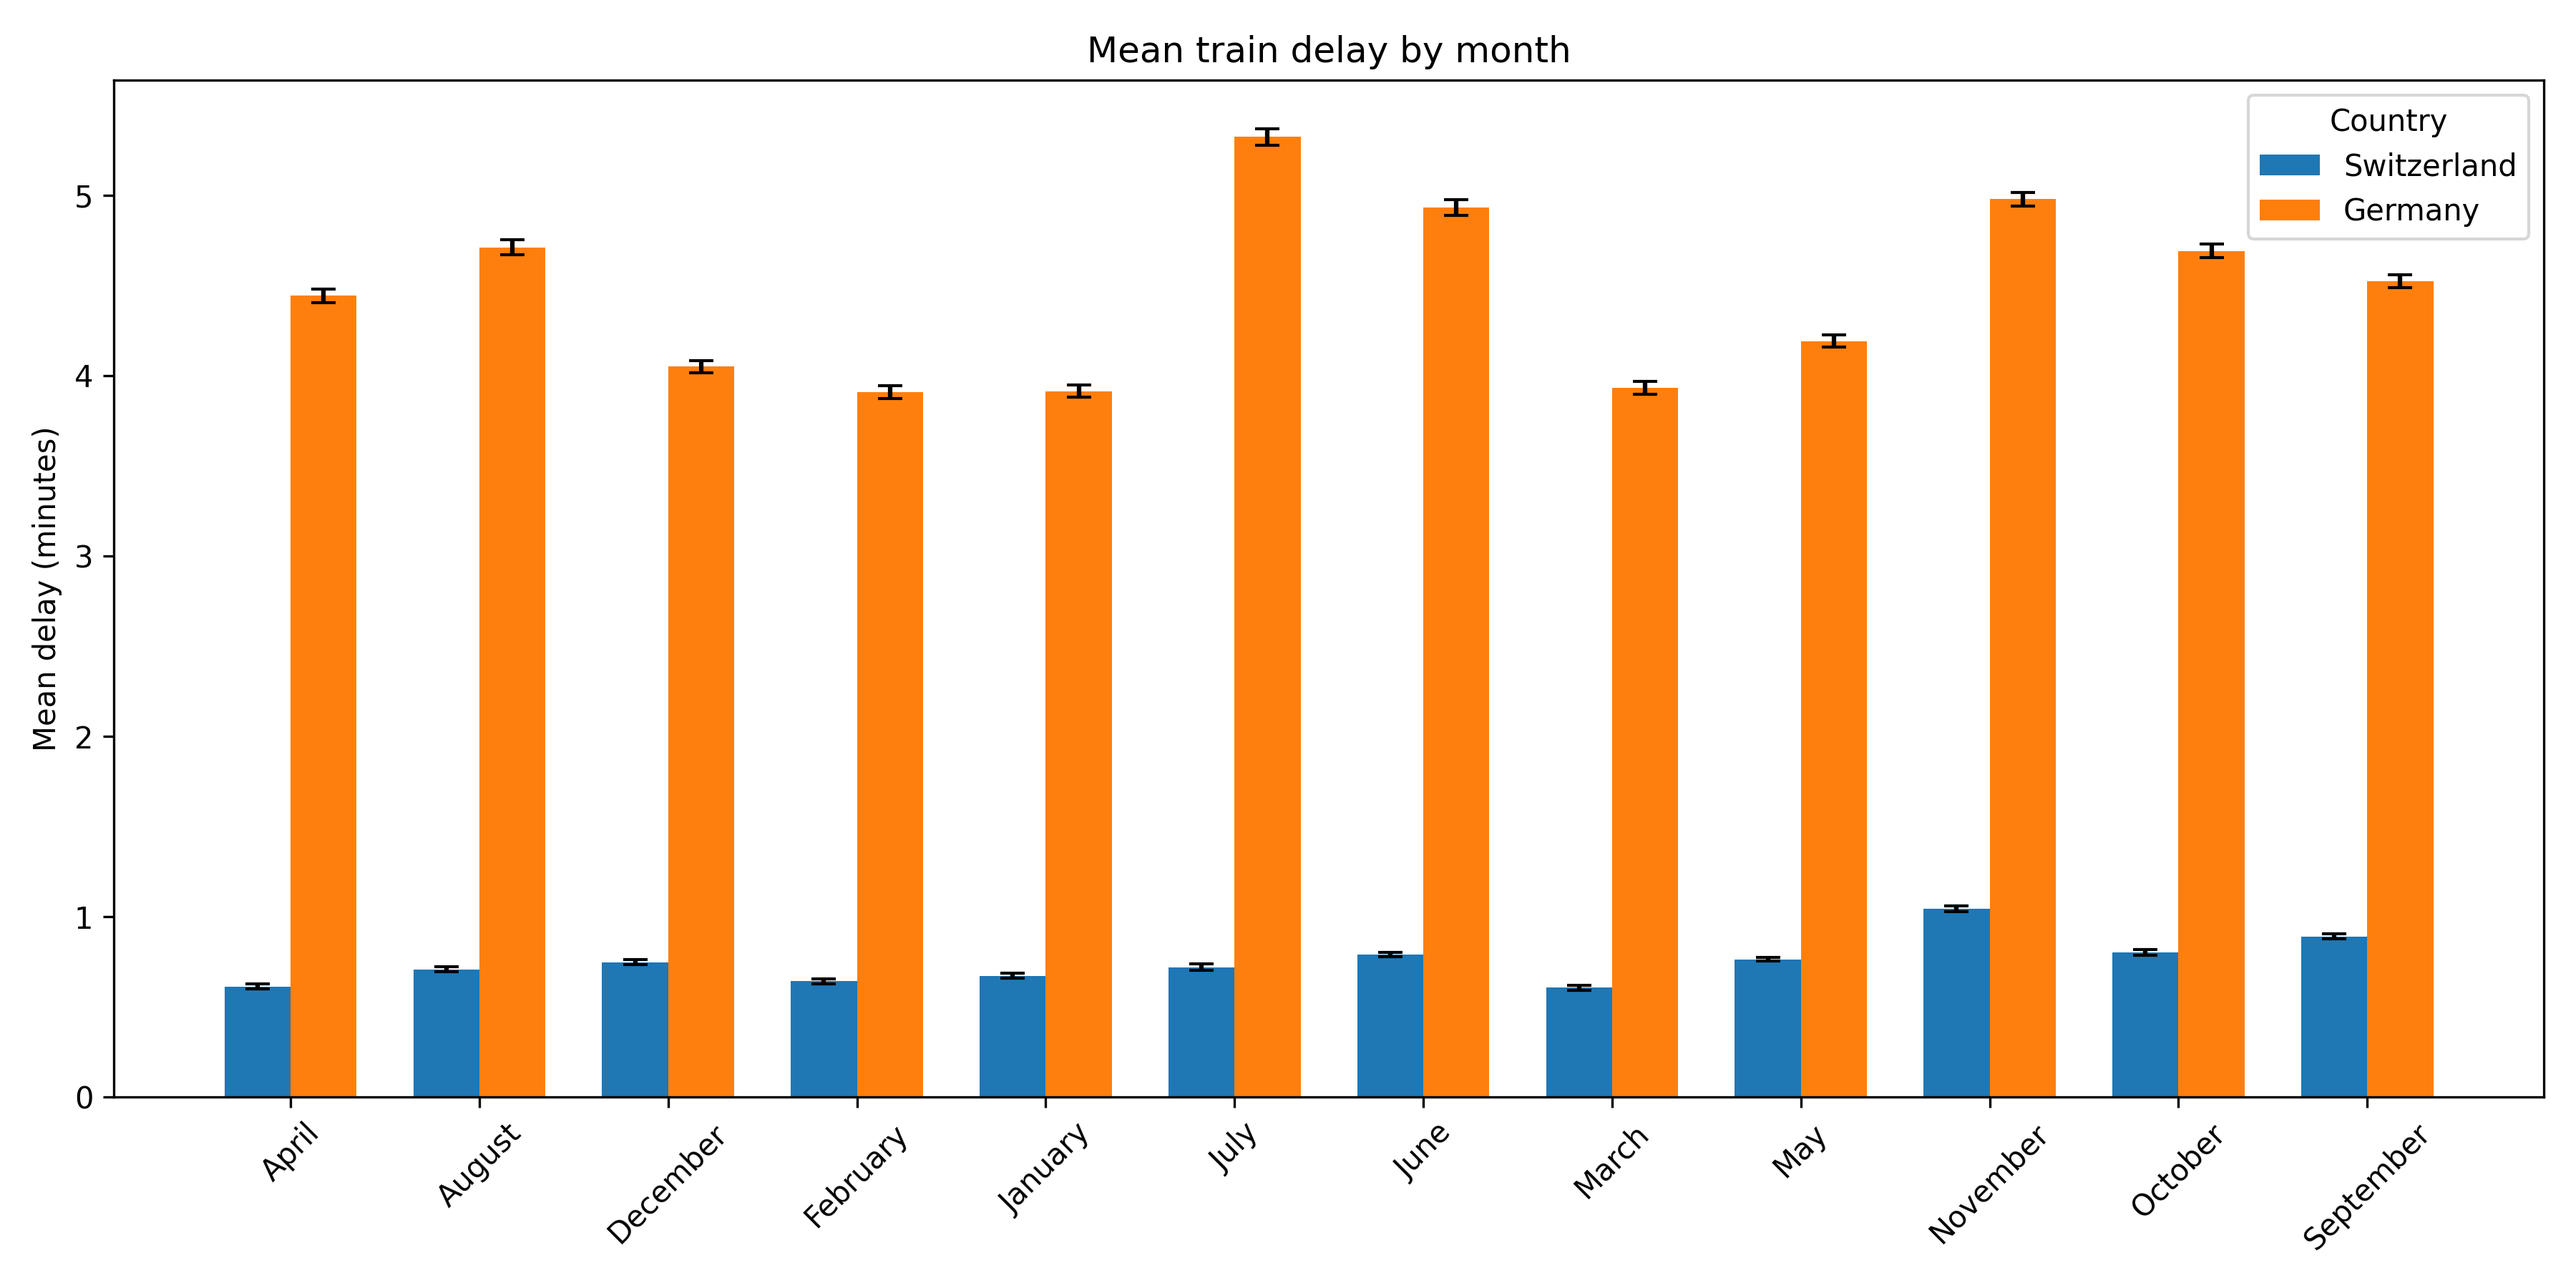
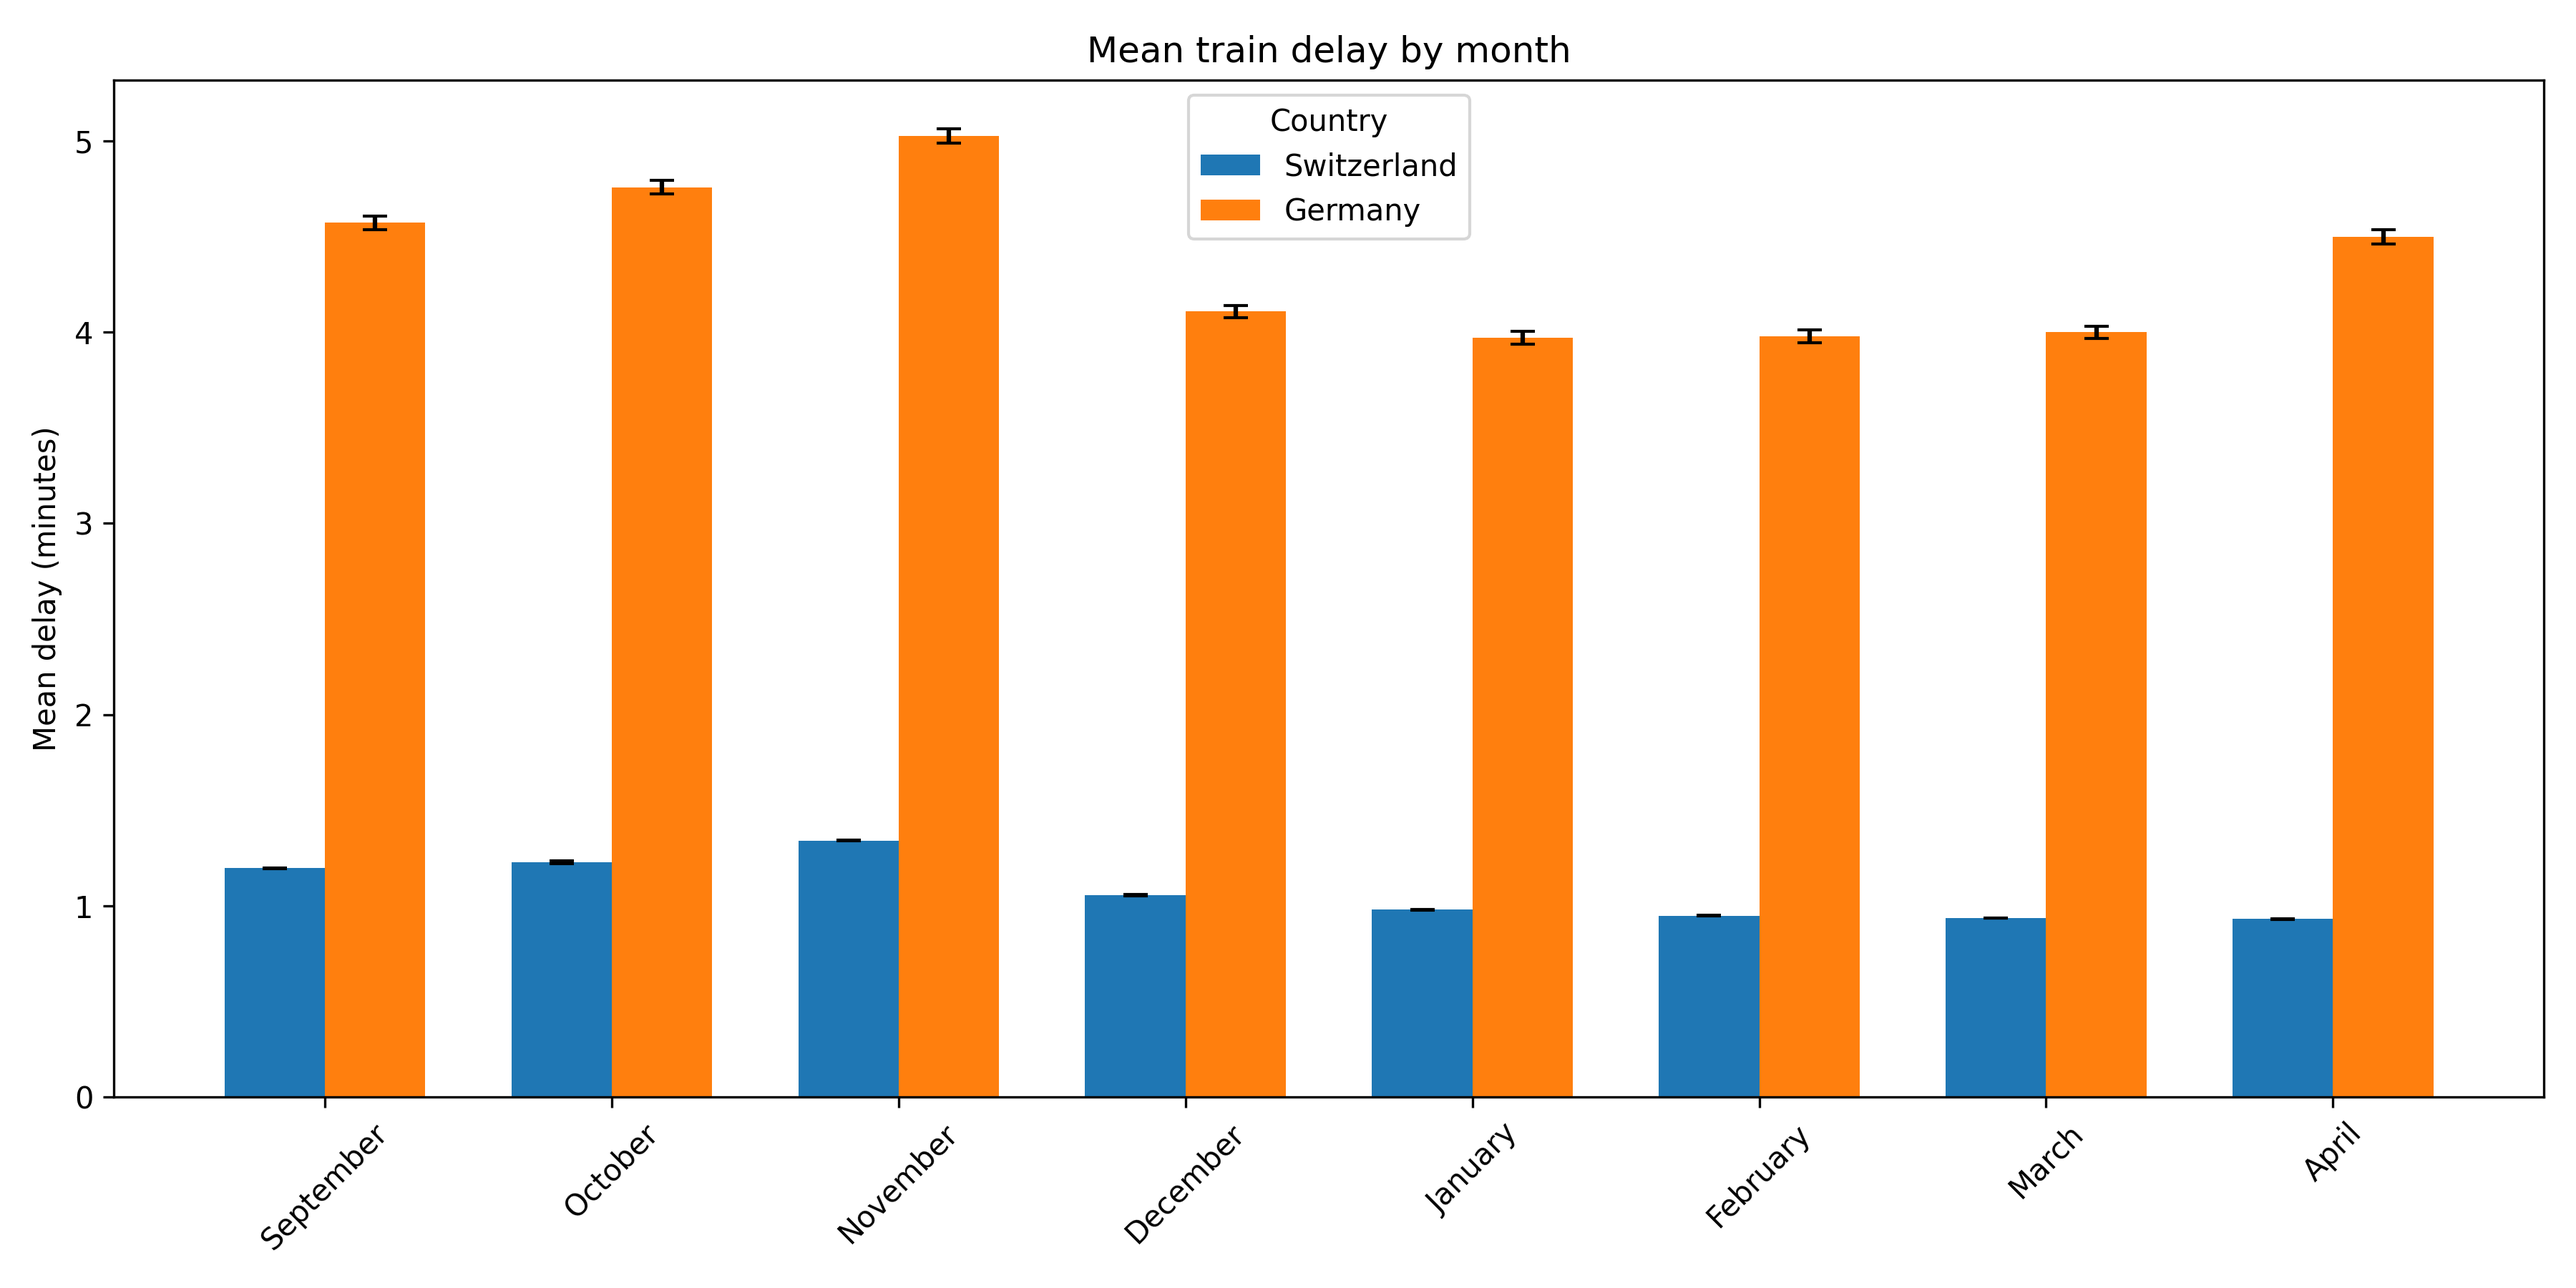
fixes problems in weather_delay_analysis.py and adds analysis_results to the report directory.

diff --git a/analysis/weather_delay_analysis.py b/analysis/weather_delay_analysis.py
@@ -37,11 +37,11 @@ WHERE delay_in_min IS NOT NULL
 sql_train_ch = """
 SELECT
     bpuic AS trainstation,
-    arrival_time AS timestamp,
-    predicted_arrival
+    predicted_arrival AS timestamp,
+    arrival_time
 FROM swiss_trainstop
-WHERE predicted_arrival IS NOT NULL
-  AND arrival_time IS NOT NULL
+WHERE predicted_departure IS NOT NULL
+  AND departure_time IS NOT NULL
   AND cancellation_flag = false
   AND pass_through_flag = false;
 """
@@ -91,12 +91,17 @@ print("✔ Data loaded")
 
 # Swiss delay calculation
 df_train_ch["delay_minutes"] = (
-    (df_train_ch["predicted_arrival"] - df_train_ch["timestamp"])
+    (df_train_ch["timestamp"] - df_train_ch["arrival_time"])
     .dt.total_seconds() / 60
 )
 
+df_train_ch.loc[df_train_ch["delay_minutes"] < -1000, "delay_minutes"] += 1440
+df_train_ch["delay_minutes"] = df_train_ch["delay_minutes"].clip(lower=0)
+df_train_ch = df_train_ch[df_train_ch["delay_minutes"] <= 1000]
+
 # Standardize train data
 df_train_de["delay_minutes"] = df_train_de["delay_in_min"]
+df_train_de["delay_minutes"] = df_train_de["delay_minutes"].clip(lower=0)
 df_train_de["country"] = "DE"
 df_train_ch["country"] = "CH"
 
@@ -352,7 +357,9 @@ COLOR_DE = "#ff7f0e"  # orange
 
 COUNTRY_COLORS = {
     "Germany": COLOR_DE,
-    "Switzerland": COLOR_CH
+    "DE": COLOR_DE,
+    "Switzerland": COLOR_CH,
+    "CH": COLOR_CH
 }
 
 # ============================================================
@@ -515,7 +522,7 @@ plt.show()
 
 # Derive month from timestamp
 df["month_num"] = df["hour"].dt.month
-df["month_name"] = df["hour"].dt.strftime("%B")
+df["month_name"] = df["hour"].dt.month_name()
 
 monthly_stats = (
     df.groupby(["month_num", "month_name", "country_x"])["delay_minutes"]
@@ -524,11 +531,18 @@ monthly_stats = (
 )
 
 monthly_stats.columns = ["mean_delay", "ci_lower", "ci_upper"]
+monthly_stats = monthly_stats.reset_index()
+
+MONTH_ORDER = [9, 10, 11, 12, 1, 2, 3 ,4]
+MONTH_NAME_MAP= {1: "January", 2: "February", 3: "March",
+                 4: "April", 9: "September",
+                 10: "October", 11: "November", 12: "December"}
+
 monthly_stats = (
-    monthly_stats
-    .reset_index()
-    .sort_values("month_num")
+    monthly_stats.set_index("month_num").loc[MONTH_ORDER].reset_index()
 )
+
+monthly_stats["month_name"] = monthly_stats["month_name"].map(MONTH_NAME_MAP)
 
 monthly_stats.to_csv(
     "../report/analysis_results/delay_per_month.csv",
@@ -538,26 +552,21 @@ monthly_stats.to_csv(
 # Bar chart
 fig, ax = plt.subplots(figsize=(12, 6))
 
-months, plot_data = prepare_plot_data(
-    monthly_stats, "month_name"
-)
-
-x = np.arange(len(months))
+x = np.arange(len(MONTH_ORDER))
 width = 0.35
 
 for i, country in enumerate(["CH", "DE"]):
-    sub = plot_data[country]
+    sub = (
+        monthly_stats[monthly_stats["country_x"] == country]
+        .set_index("month_num")
+        .reindex(MONTH_ORDER)
+    )
 
     means = sub["mean_delay"].values
     yerr = [
         means - sub["ci_lower"].values,
         sub["ci_upper"].values - means
     ]
-
-    if country == "CH":
-        country = ("Switzerland")
-    else:
-        country = ("Germany")
 
     ax.bar(
         x + i * width,
@@ -566,11 +575,11 @@ for i, country in enumerate(["CH", "DE"]):
         yerr=yerr,
         capsize=4,
         color=COUNTRY_COLORS[country],
-        label=country
+        label="Switzerland" if country == "CH" else "Germany"
     )
 
 ax.set_xticks(x + width / 2)
-ax.set_xticklabels(months, rotation=45)
+ax.set_xticklabels([MONTH_NAME_MAP[m] for m in MONTH_ORDER], rotation=45)
 ax.set_ylabel("Mean delay (minutes)")
 ax.set_title("Mean train delay by month")
 ax.legend(title="Country")
